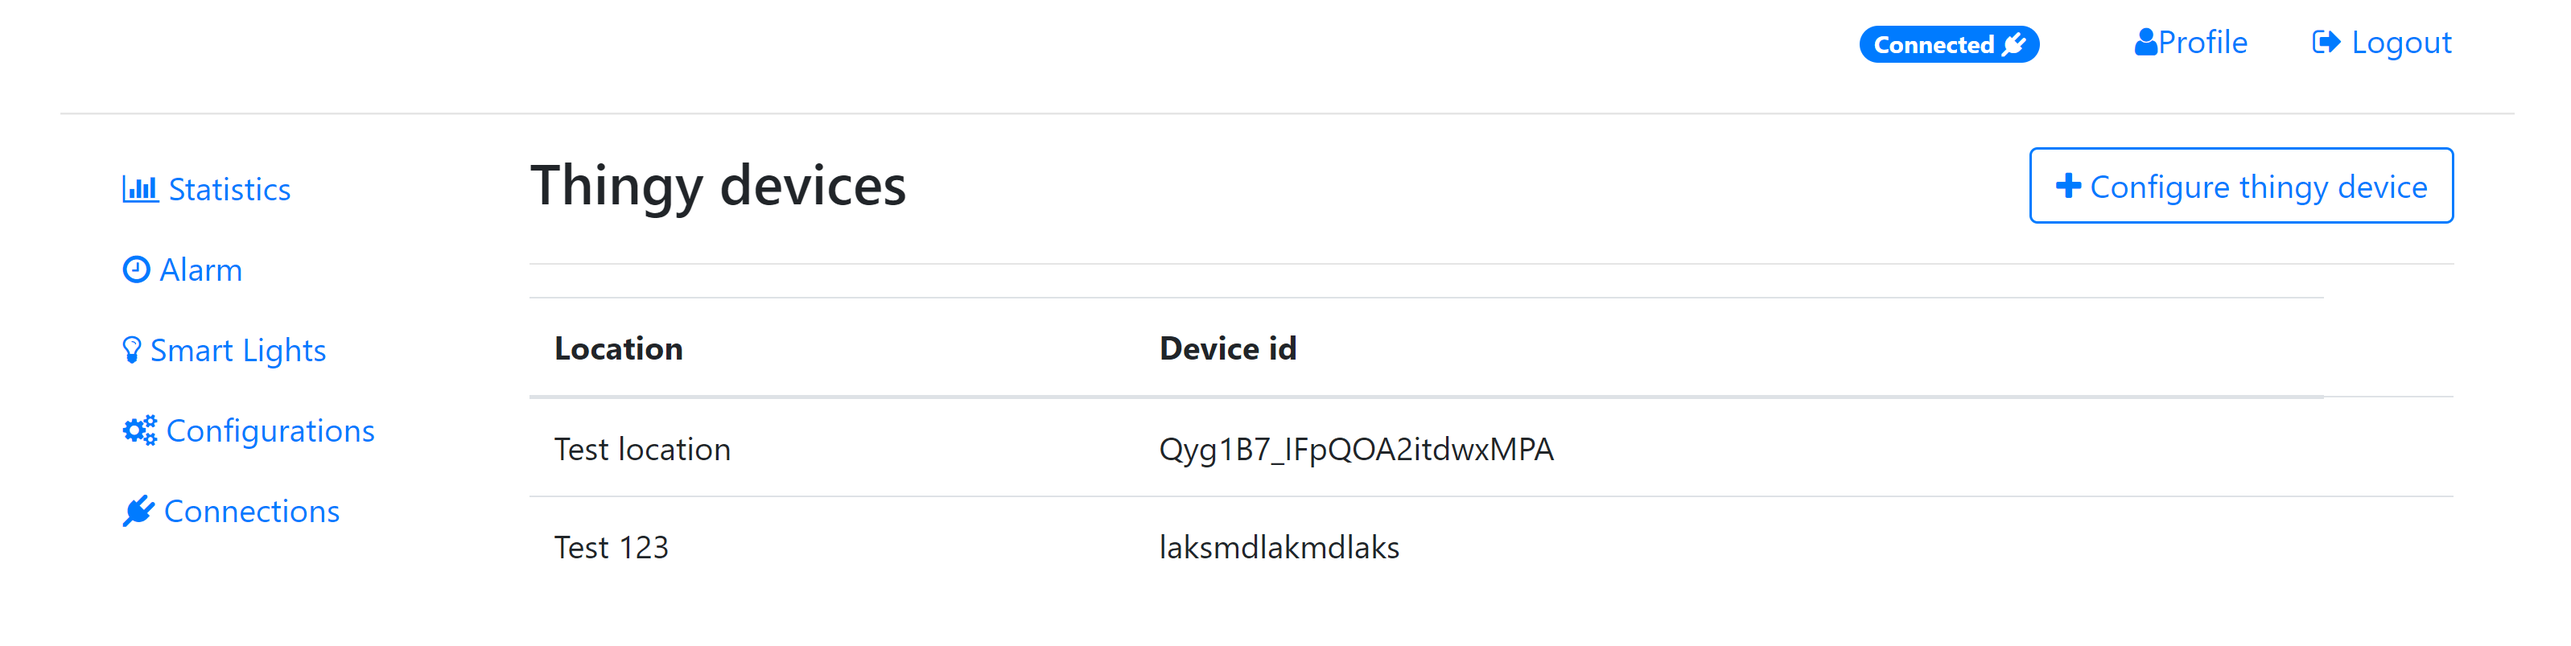
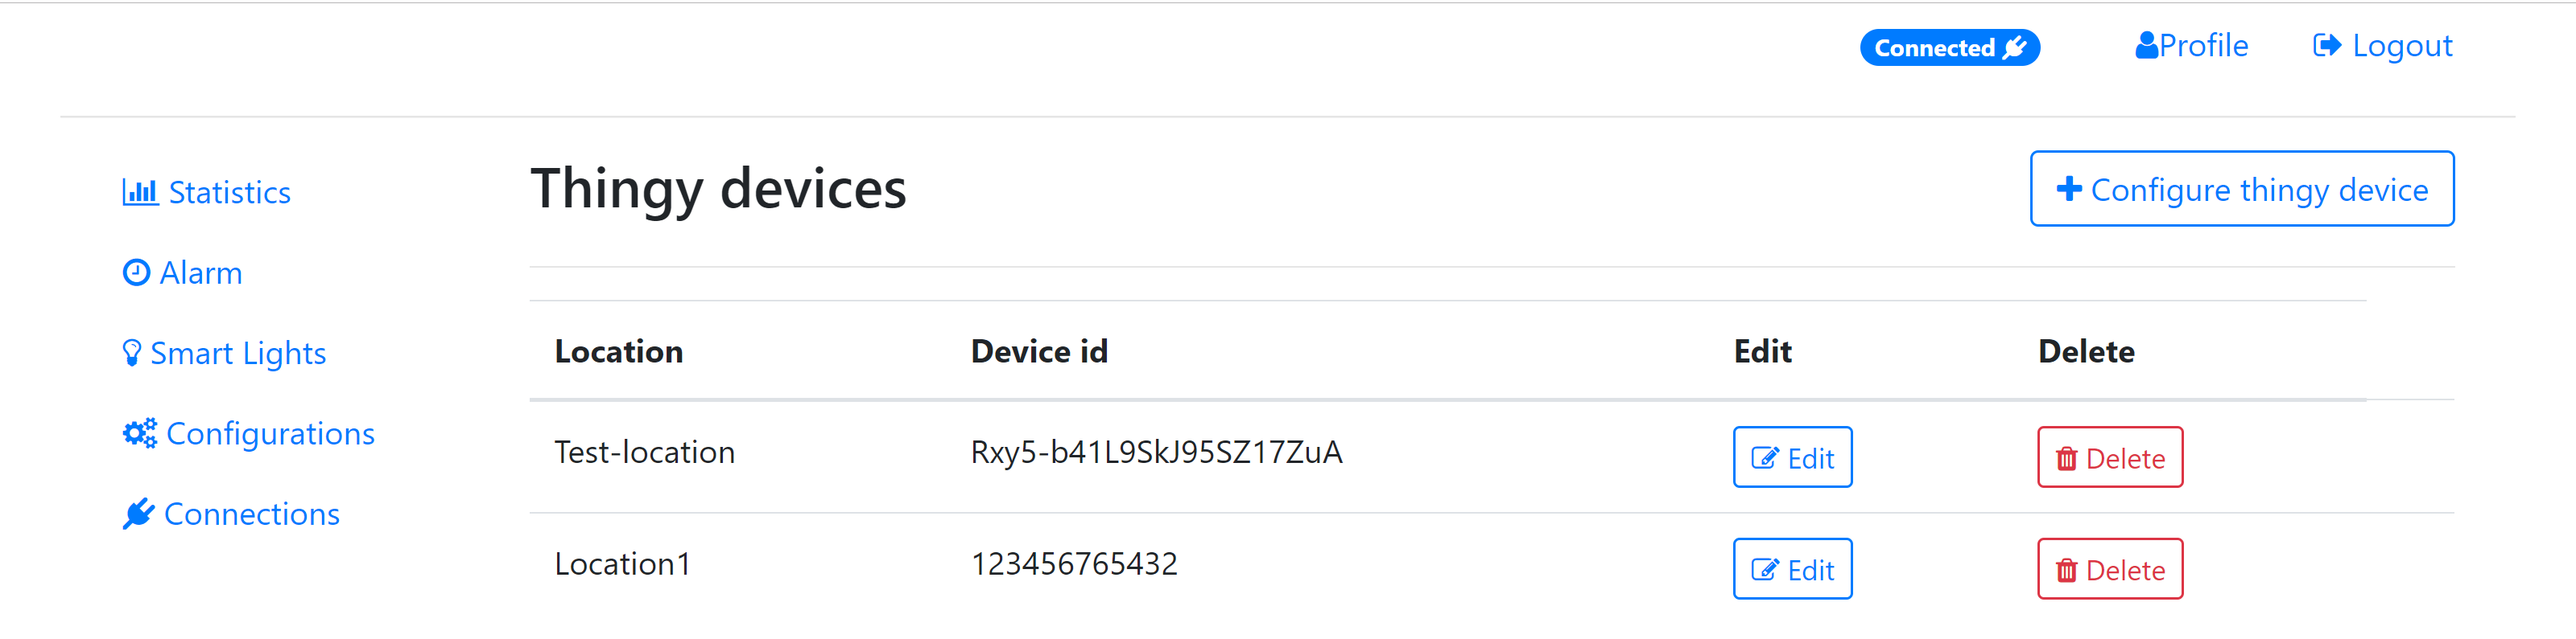
#24: Complete the documentation of the thingy devices setup.

diff --git a/functional/Thingy devices configuration.md b/functional/Thingy devices configuration.md
@@ -5,7 +5,7 @@ Basically the part of configuring the thingy devices is automated as much as pos
 circumstance). However, there are a few constraints at this point because our system does not communicate directly
 with thingy devices, but instead the device should be first setup via 
 web bluetooth proxy. After the thingy device is discovered using web bluetooth proxy 
-the device id of thingy is shown and the configuration in our system is done 
+the device id of thingy is shown and the configuration in our system should be done 
 by using that device id.
 
 **Details**
@@ -28,5 +28,9 @@ When assigning the location, the user should be careful when setting up the loca
 In case the user provides a location already configured, the device id related 
 to the provided location will be updated. However, this is a corner case and 
 considering the nature of the location the chances to occur are very low.
+
+In case the device id of any of the thingy devices has changed (typically in system restart)
+the user is responsible for updating the device id of the respective configuration.
+Also, the user can delete the configuration. 
 
 

diff --git a/technical/Thingy devices configuration.md b/technical/Thingy devices configuration.md
@@ -15,3 +15,5 @@ the system is able to subscribe to events published by the respective device aut
 A new device can be configured by providing valid data in the following form:
 
 ![Alt text](./Configure%20new%20device.PNG)
+
+User can delete it's own configuration as well as update one (the device id of a configuration).
